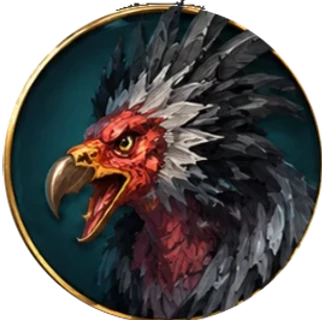
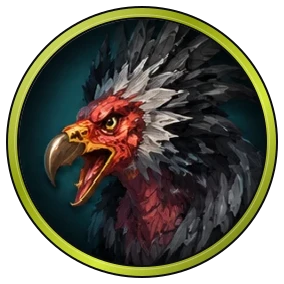
Forever: medallones del Top 5 con aro propio, sin cortes

diff --git a/src/styles/forever.css b/src/styles/forever.css
@@ -1256,8 +1256,8 @@ pre.mf-code { align-self: start; margin: 0; padding: 12px 14px; overflow-x: auto
 .t5-rank { font: 800 30px/1 var(--font-display); color: var(--brand-text); }
 .t5-card .t5-rank { position: absolute; top: 12px; left: 14px; }
 .t5-card--1 .t5-rank, .t5-ficha--1 .t5-rank { color: var(--gold); }
-/* Retrato: medallón ilustrado (public/pets/<id>.webp, 320 px, fondo transparente). La imagen ya trae el aro dorado
-   abajo y lo que sobresale (orejas, melena, plumas) arriba, así que aquí solo se da tamaño, sombra y el salto al pasar el ratón. */
+/* Retrato: medallón ilustrado (public/pets/<id>.webp, 284 px, transparente). La imagen ya trae el aro (dorado en la #1,
+   verde el resto) y la viñeta, así que aquí solo se da tamaño, sombra y el salto al pasar el ratón. */
 .t5-port { --s: 132px; display: block; flex-shrink: 0; width: var(--s); height: var(--s); }
 .t5-port img { display: block; width: 100%; height: 100%; filter: drop-shadow(0 6px 10px rgb(0 0 0 / 0.55)); transform-origin: 50% 100%; transition: transform 0.25s var(--ease), filter 0.25s var(--ease); }
 .t5-card__btn:hover .t5-port img { transform: translateY(-4px) scale(1.04); }

diff --git a/CHANGELOG.md b/CHANGELOG.md
@@ -17,9 +17,9 @@ Es distinto de `src/content/data/changelog.json`, que es la lista de cambios par
 ---
 
 ## 2026-11-16 — Forever: retratos en medallón del Top 5 de mascotas
-- Retratos = medallones ilustrados que pasó Mishuko (tira de 5 con aro dorado y fondo de tarjeta). Recortados con un script: dentro del aro se queda todo; fuera, solo lo que sobresale por arriba (orejas, melena, plumas) y está conectado con el aro, sin el fondo verde azulado. La tira venía achatada (aros elípticos ~132×126 px), así que se recorta como elipse y se estira para dejarla redonda. 320 px con transparencia en `public/pets/<id>.webp`.
-- `.t5-port` ya no dibuja círculo ni aro (vienen en la imagen): solo tamaño (`--s`: 132 px tarjeta, 100 px ficha, 80 px en pantallas bajas), sombra (con brillo dorado en la #1) y salto al pasar el ratón. Ficha comprobada sin scroll a 1024×768.
-- Antes se probaron cabezas sueltas de Gemini con círculo y aro hechos en CSS; Mishuko prefirió este estilo.
+- Retratos = medallones con las cabezas ilustradas que pasó Mishuko (tira de 5 con aro dorado). Del original solo se toma la ilustración de dentro del aro (r 123,5 px); el aro se dibuja nuevo con SVG (degradado metálico, dorado en la #1 y verde de la marca en el resto, con borde oscuro y brillo interior) más una viñeta interior. Así no hay cortes donde el pelo tapaba el aro original. La tira venía achatada en vertical (aro 135 × 127,5 px): se corrige al recortar. 284 px con transparencia en `public/pets/<id>.webp`.
+- Se probó dejar asomar por encima del aro orejas/melena, pero quedaban puntas sueltas: descartado.
+- `.t5-port` solo da tamaño (`--s`: 132 px tarjeta, 100 px ficha, 80 px en pantallas bajas), sombra (brillo dorado en la #1) y salto al pasar el ratón. Ficha comprobada sin scroll a 1024×768.
 
 ## 2026-11-16 — Forever: Top 5 mascotas (estilo Pokédex) en Mascotas
 - Sección `#pf-top5` al principio de `/forever/mascotas/` (primera del índice): 5 tarjetas (#1 → #5) con filtro por uso (Leveo, Mazmorras, PvP, Tanqueo AoE) y ficha en `<dialog>` con Anterior/Siguiente (también flechas del teclado): retrato (icono de familia), rareza y nivel, enlace al modelo 3D de Wowhead, mapa de la zona (zamimg classic es-ES) con todos los avistamientos en puntos y los principales como pines (pasar el ratón / tocar = coordenadas), reaparición y consejo, velocidad de ataque destacada (cifra grande, barra y golpes por minuto; sin salud/armadura/daño de familia, a petición de Mishuko), dieta, habilidad que enseña al domesticarla, qué enseñarle (sin repetir lo que ya trae), por qué es top y cuándo usarla. Evento GA4 `mascota_ficha`. El tooltip propio (`#tooltip`) se mueve dentro del modal mientras está abierto.
